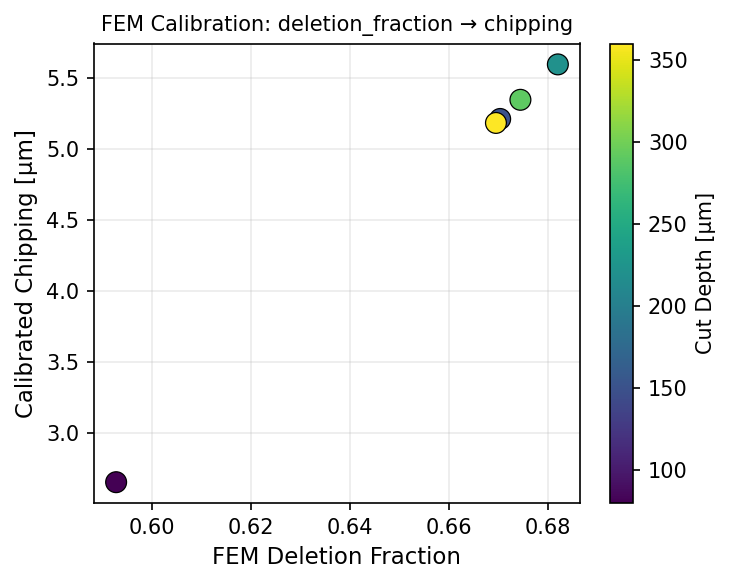
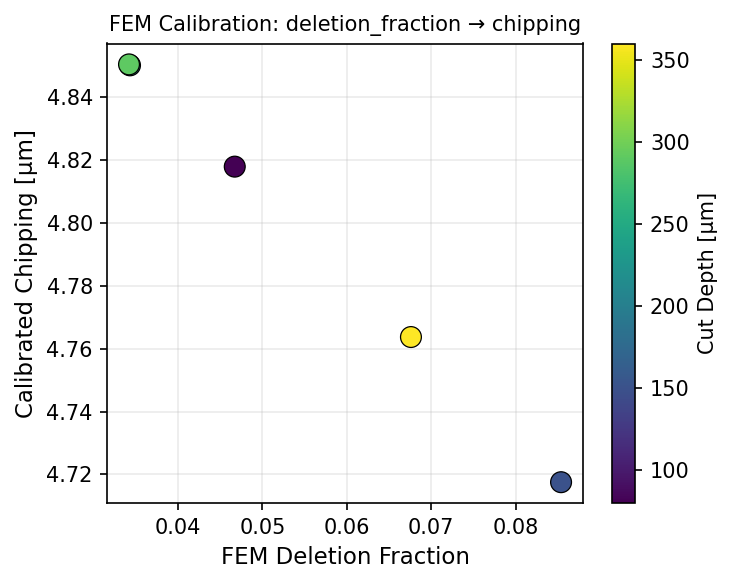
fix: BC修正（DOF1→DOF6）+ 全5ジョブFEM完了・結果更新
- 全INP: _PickedSet9 BladeLateral BC を DOF1→DOF6（回転拘束）に修正
  - BOTH DISPLACEMENT AND VELOCITY エラー解消
- d360 INP: Bulk Viscosity 0.06→0.12 統一
- 結果（全5本 COMPLETED SUCCESSFULLY）:
  d080: 4.7%削除, RF2=65kN  d150: 8.5%削除, RF2=62kN
  d220: 3.4%削除, RF2=54kN  d290: 3.4%削除, RF2=59kN
  d360: 6.8%削除, RF2=48kN（旧66.9%/2.2MNから修正）
- fusion GP再学習: LOO RMSE 2.37µm, R²=0.64
- d360_cutting.gif: 物理的に正しい切削パターン（局所亀裂）で更新

diff --git a/runs/extended_sic/visualize_d360.py b/runs/extended_sic/visualize_d360.py
@@ -23,7 +23,7 @@ from matplotlib.collections import PolyCollection
 
 # ── Paths ─────────────────────────────────────────────────────────────────────
 SCRIPT_DIR = os.path.dirname(os.path.abspath(__file__))
-ODB_PATH   = os.path.join(SCRIPT_DIR, "dicing_4HSiC_d360_bw23.odb")
+ODB_PATH   = os.path.join(SCRIPT_DIR, "dicing_4HSiC_d360_bw23_run.odb")
 OUT_DIR    = os.path.join(SCRIPT_DIR, "..", "..", "results", "d360_frames")
 os.makedirs(OUT_DIR, exist_ok=True)
 
